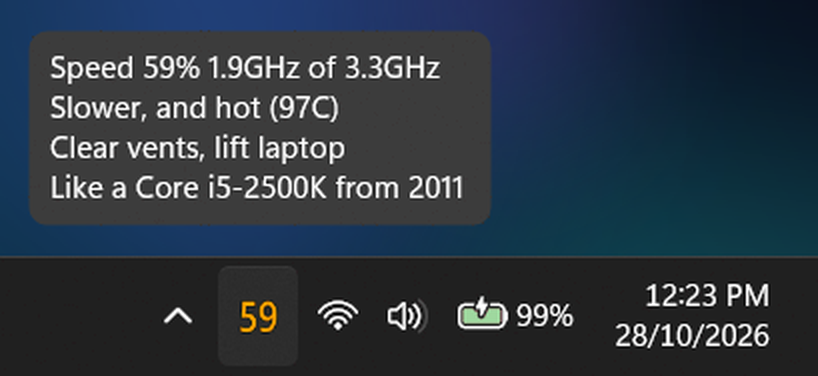
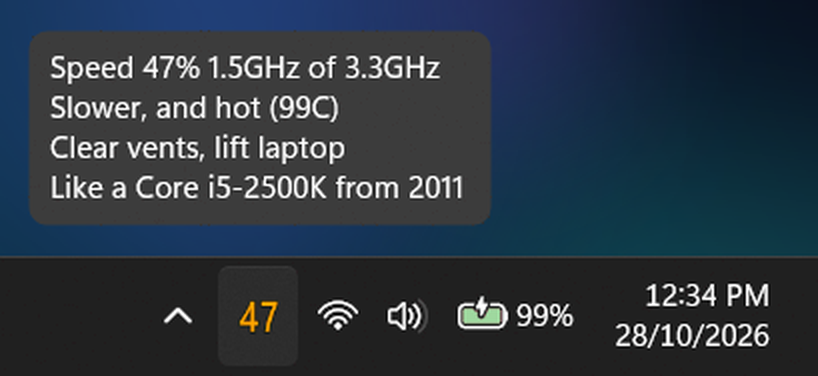
Screenshots: the hot picture shows a different speed (47%) from the not-hot one (59%)
Hot-case tray picture retaken at 47% / 99C; hero and listing images and the
README alt text follow. No exe change: dist/HeatTray.exe is the same file as v2.2.

Claude-Session: https://claude.ai/code/session_01SGbDh1JUVSHN9EJvkUQFny

diff --git a/store/make-hero.py b/store/make-hero.py
@@ -121,7 +121,7 @@ def tile(img, cx, cy, size):
 READ = {   # the tooltips the app prints (HeatTray.cs, Render/SlowLines), as captured on 28 Oct 2026
     "g": ("99", GREEN, ["Speed 99% 3.3GHz of 3.3GHz", "Working hard, all fine", "66C | load 59%"]),
     "o": ("59", ORANGE, ["Speed 59% 1.9GHz of 3.3GHz", "Slower, not hot (64C)", "Plug in, check power mode", "Like a Core i5-2500K from 2011"]),
-    "h": ("59", ORANGE, ["Speed 59% 1.9GHz of 3.3GHz", "Slower, and hot (97C)", "Clear vents, lift laptop", "Like a Core i5-2500K from 2011"]),
+    "h": ("47", ORANGE, ["Speed 47% 1.5GHz of 3.3GHz", "Slower, and hot (99C)", "Clear vents, lift laptop", "Like a Core i5-2500K from 2011"]),
     "r": ("27", RED, ["Speed 27% 0.9GHz of 3.3GHz", "Far slower, not hot (59C)", "Plug in, check power mode", "Like a Core 2 Duo E6600 from 2006"]),
 }
 

diff --git a/README.md b/README.md
@@ -8,7 +8,7 @@ Two slow readings, two different causes. HeatTray tells them apart, so you know 
 
 | Slow, **not hot**: check power mode and charger | Slow **and hot**: clear the vents |
 |---|---|
-| ![Orange 59%, tooltip: Slower, not hot (64C), Plug in, check power mode](screenshots/HeatTray-screenshot_tray.png) | ![Orange 59%, tooltip: Slower, and hot (97C), Clear vents, lift laptop](screenshots/HeatTray-screenshot_tray_hot.png) |
+| ![Orange 59%, tooltip: Slower, not hot (64C), Plug in, check power mode](screenshots/HeatTray-screenshot_tray.png) | ![Orange 47%, tooltip: Slower, and hot (99C), Clear vents, lift laptop](screenshots/HeatTray-screenshot_tray_hot.png) |
 
 *Staged for the pictures: the laptop was idle, so the idle threshold was lowered and the speed scaled down to look slow, and the temperature in the second picture was raised. In the left picture the 64C and the battery power are real.*
 
